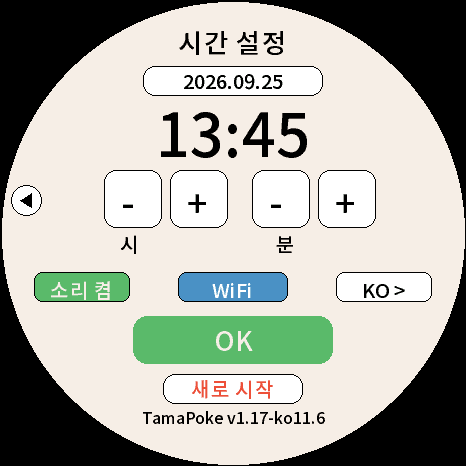
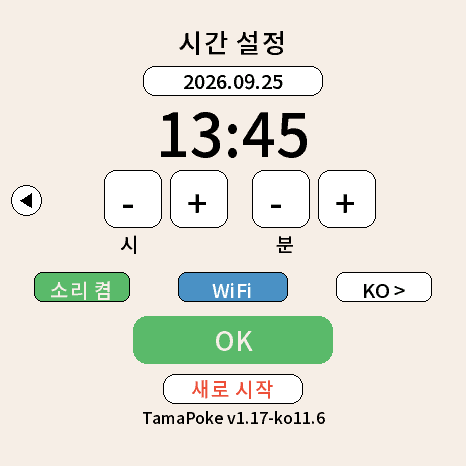
claude-version: menu screens paint the background colour directly (no black pass: flicker on the network screen); potions 35% on wild wins, cap 15 - ko11.6.1, not built
Claude-Session: https://claude.ai/code/session_01CiwvMdFH9wtdhm1XA9VgMB

Changed region(s): [[0.0, 0.0, 1.0, 1.0]]

diff --git a/claude-version/TamaPoke/pet.h b/claude-version/TamaPoke/pet.h
@@ -79,9 +79,9 @@ enum : uint8_t { BATTLE_WILD = 0, BATTLE_LINK };
 
 // ko11.1: menos objetos (sobraban)
 constexpr uint8_t BALL_MAX = 20;
-constexpr uint8_t POTION_MAX = 10;
+constexpr uint8_t POTION_MAX = 15;  // ko11.6.1: antes 10
 constexpr uint8_t WILD_BALL_PCT = 40;
-constexpr uint8_t WILD_POTION_PCT = 30;
+constexpr uint8_t WILD_POTION_PCT = 35;  // ko11.6.1: antes 30
 
 class Pet {
 public:

diff --git a/claude-version/TamaPoke/test/test_box.cpp b/claude-version/TamaPoke/test/test_box.cpp
@@ -209,7 +209,7 @@ TEST(items, premio_salvaje_por_probabilidad_y_tope) {
 TEST(items, giveItems_con_tope_y_sin_quitar) {
   Pet p;
   freshPet(p, 4);
-  p.balls = 19; p.potions = 9;
+  p.balls = 19; p.potions = POTION_MAX - 1;
   p.giveItems(3, 3);
   CHECK_EQ(p.balls, BALL_MAX);
   CHECK_EQ(p.potions, POTION_MAX);

diff --git a/claude-version/확인_대기.md b/claude-version/확인_대기.md
@@ -33,3 +33,7 @@
 - ko11.6.1 준비: 챔피언 리그 연승 (패배해도 배지 유지, 리그에서 지면 연승만 0). 리그 쪽 "연승 N (최고 M연승)",
   우승 결과 "챔피언 N연승!", 명예의 전당 상세 "N번째 챔피언  N연승". pet 키 chs/chb/fstk (SD 백업에도 포함)
 - ko11.6.1: WiFi 설정(QR) 화면 깜박임 대책 — AP 송신 출력 20dBm→8.5dBm (USB 전원만일 때 전류 피크로 화면 깜박임 추정). 기기에서 확인 필요
+- 네트워크 화면 깜박임 (영상 분석: 화면 전체가 1~2프레임 10~15% 어두워짐, 1~2초 간격 불규칙):
+  ko11.6.1 대책 = 모든 메뉴 화면 배경을 검정→배경색 한 번에 칠하기 (이전 프레임 전송과 겹칠 때 검정이 섞이는 것 방지).
+  그래도 계속이면 전원(USB 전용) 쪽 의심 → 밝기 낮춰 보기 / 다른 화면과 비교
+- 물약: 야생 30%→35%, 최대 10→15
